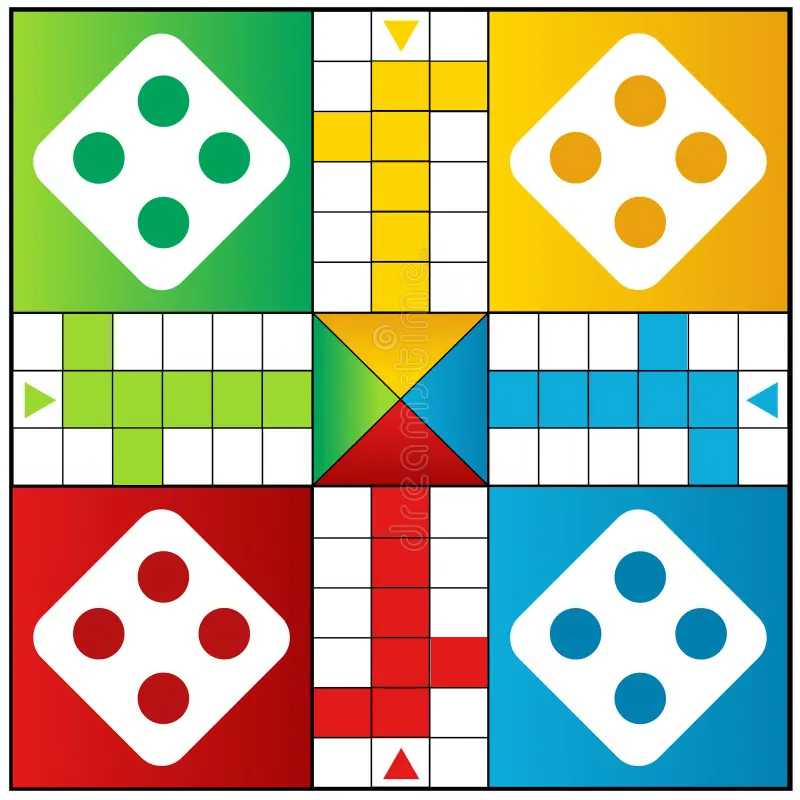
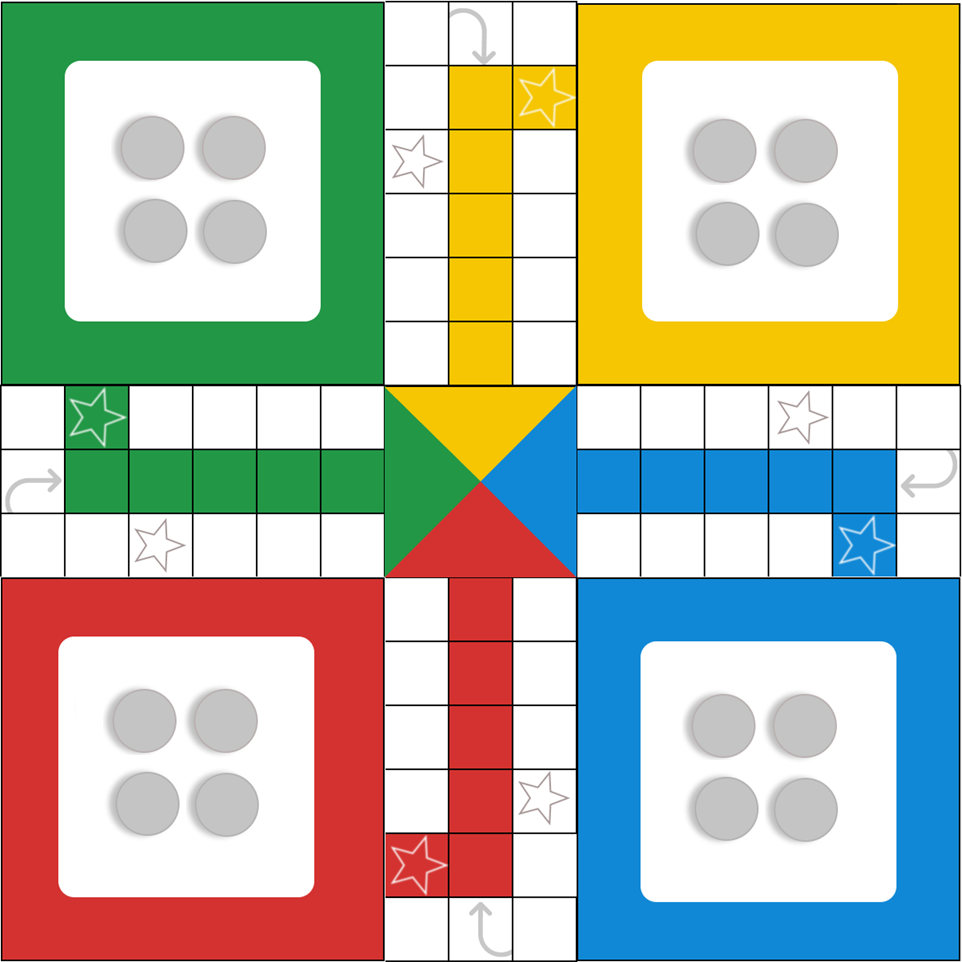
added new screen skins for playerseat

diff --git a/LudoClient/CoreEngine/Game.xaml b/LudoClient/CoreEngine/Game.xaml
@@ -1,33 +1,35 @@
 <?xml version="1.0" encoding="utf-8" ?>
-<ContentPage xmlns="http://schemas.microsoft.com/dotnet/2021/maui"
+<ContentPage x:Class="LudoClient.CoreEngine.Game"
+             xmlns="http://schemas.microsoft.com/dotnet/2021/maui"
              xmlns:x="http://schemas.microsoft.com/winfx/2009/xaml"
-             x:Class="LudoClient.CoreEngine.Game"
              xmlns:local="clr-namespace:LudoClient.ControlView"
-             BackgroundImageSource="background_waitingroom.png"
              xmlns:controls="clr-namespace:LudoClient.ControlView"
              xmlns:simpleCore="clr-namespace:SimpleToolkit.Core;assembly=SimpleToolkit.Core"
-             xmlns:acrylic="clr-namespace:Xe.AcrylicView;assembly=Xe.AcrylicView">
+             xmlns:acrylic="clr-namespace:Xe.AcrylicView;assembly=Xe.AcrylicView"
+             xmlns:constants="clr-namespace:LudoClient.Constants"
+             BackgroundImageSource="{x:Static constants:Skins.Background_Waitingroom}">
+             
     <Grid VerticalOptions="FillAndExpand" HorizontalOptions="FillAndExpand">
         <Grid HorizontalOptions="FillAndExpand" VerticalOptions="Fill" RowDefinitions=".3*,.4*,.06*,1.6*,.4*,.2*">
-            <local:Capsule x:Name="Glayout" Grid.Row="3" ImageSource="board_game.png" HorizontalOptions="CenterAndExpand" VerticalOptions="CenterAndExpand">
+            <local:Capsule x:Name="Glayout" Grid.Row="3" ImageSource="{x:Static constants:Skins.GameBoard}" HorizontalOptions="CenterAndExpand" VerticalOptions="CenterAndExpand">
                 <Grid HorizontalOptions="FillAndExpand" VerticalOptions="FillAndExpand" RowDefinitions="*,*,*,*,*,*,*,*,*,*,*,*,*,*,*" ColumnDefinitions="*,*,*,*,*,*,*,*,*,*,*,*,*,*,*">
                     <AbsoluteLayout x:Name="Alayout" Grid.ColumnSpan="15" Grid.RowSpan="15">
-                        <local:Token x:Name="red1" piece="red_token_large.png"/>
-                        <local:Token x:Name="red2" piece="red_token_large.png"/>
-                        <local:Token x:Name="red3" piece="red_token_large.png"/>
-                        <local:Token x:Name="red4" piece="red_token_large.png"/>
-                        <local:Token x:Name="gre1" piece="green_token_large.png"/>
-                        <local:Token x:Name="gre2" piece="green_token_large.png"/>
-                        <local:Token x:Name="gre3" piece="green_token_large.png"/>
-                        <local:Token x:Name="gre4" piece="green_token_large.png"/>
-                        <local:Token x:Name="yel1" piece="yellow_token_large.png"/>
-                        <local:Token x:Name="yel2" piece="yellow_token_large.png"/>
-                        <local:Token x:Name="yel3" piece="yellow_token_large.png"/>
-                        <local:Token x:Name="yel4" piece="yellow_token_large.png"/>
-                        <local:Token x:Name="blu1" piece="blue_token_large.png"/>
-                        <local:Token x:Name="blu2" piece="blue_token_large.png"/>
-                        <local:Token x:Name="blu3" piece="blue_token_large.png"/>
-                        <local:Token x:Name="blu4" piece="blue_token_large.png"/>
+                        <local:Token x:Name="red1" piece="{x:Static constants:Skins.RedToken}"/>
+                        <local:Token x:Name="red2" piece="{x:Static constants:Skins.RedToken}"/>
+                        <local:Token x:Name="red3" piece="{x:Static constants:Skins.RedToken}"/>
+                        <local:Token x:Name="red4" piece="{x:Static constants:Skins.RedToken}"/>
+                        <local:Token x:Name="gre1" piece="{x:Static constants:Skins.GreenToken}"/>
+                        <local:Token x:Name="gre2" piece="{x:Static constants:Skins.GreenToken}"/>
+                        <local:Token x:Name="gre3" piece="{x:Static constants:Skins.GreenToken}"/>
+                        <local:Token x:Name="gre4" piece="{x:Static constants:Skins.GreenToken}"/>
+                        <local:Token x:Name="yel1" piece="{x:Static constants:Skins.YellowToken}"/>
+                        <local:Token x:Name="yel2" piece="{x:Static constants:Skins.YellowToken}"/>
+                        <local:Token x:Name="yel3" piece="{x:Static constants:Skins.YellowToken}"/>
+                        <local:Token x:Name="yel4" piece="{x:Static constants:Skins.YellowToken}"/>
+                        <local:Token x:Name="blu1" piece="{x:Static constants:Skins.BlueToken}"/>
+                        <local:Token x:Name="blu2" piece="{x:Static constants:Skins.BlueToken}"/>
+                        <local:Token x:Name="blu3" piece="{x:Static constants:Skins.BlueToken}"/>
+                        <local:Token x:Name="blu4" piece="{x:Static constants:Skins.BlueToken}"/>
                     </AbsoluteLayout>
                 </Grid>
             </local:Capsule>

diff --git a/LudoClient/GameSettingsPages/OfflinePage.xaml b/LudoClient/GameSettingsPages/OfflinePage.xaml
@@ -21,18 +21,18 @@
                     <Grid Margin="2,20,2,0" HeightRequest="20" ColumnSpacing="35" HorizontalOptions="FillAndExpand" ColumnDefinitions=".1*,.1*">
                         <Grid ColumnDefinitions=".04*,.1*,.04*" >
                             <BoxView BackgroundColor="#2B4195" Grid.ColumnSpan="3" CornerRadius="6" Margin="-8,-4,-8,-4"></BoxView>
-                            <local:ImageSwitch Margin="0,1,10,1" x:Name="TabP1" SwitchText="" SwitchOn="radio_on.png" SwitchOff="radio_off.png" VerticalOptions="Center" HorizontalOptions="Center"  IsIndependent="False" InputTransparent="True"/>
-                            <Label Grid.Column="1">Computer</Label>
-                            <Image Margin="10,-2,0,-2" Grid.Column="2" Source="ic_computer.png" HorizontalOptions="CenterAndExpand" VerticalOptions="CenterAndExpand"/>
+                            <local:ImageSwitch Margin="0,1,2,1" x:Name="TabP1" SwitchText="" SwitchOn="radio_on.png" SwitchOff="radio_off.png" VerticalOptions="FillAndExpand" HorizontalOptions="Start"  IsIndependent="False" InputTransparent="True"/>
+                            <Label Grid.Column="1" FontSize="14" HorizontalTextAlignment="Start">Computer</Label>
+                            <Image Margin="6,-2,0,-2" Grid.Column="2" Source="ic_computer.png" HorizontalOptions="End" VerticalOptions="CenterAndExpand"/>
                             <Grid.GestureRecognizers>
                                 <TapGestureRecognizer Tapped="TabRequestedActivateP" CommandParameter="TabP1"/>
                             </Grid.GestureRecognizers>
                         </Grid>
                         <Grid Grid.Column="1" ColumnDefinitions=".04*,.1*,.04*" >
                             <BoxView  BackgroundColor="#2B4195" Grid.ColumnSpan="3" CornerRadius="6" Margin="-8,-4,-8,-4"></BoxView>
-                            <local:ImageSwitch Margin="0,1,10,1" x:Name="TabP2" SwitchText="" SwitchOn="radio_on.png" SwitchOff="radio_off.png" VerticalOptions="Center" HorizontalOptions="Center" IsIndependent="False" InputTransparent="True"/>
-                            <Label Grid.Column="1">Local</Label>
-                            <Image Margin="10,-2,0,-2" Grid.Column="2" Source="ic_local.png" HorizontalOptions="CenterAndExpand" VerticalOptions="CenterAndExpand"/>
+                            <local:ImageSwitch Margin="0,1,2,1" x:Name="TabP2" SwitchText="" SwitchOn="radio_on.png" SwitchOff="radio_off.png" VerticalOptions="FillAndExpand" HorizontalOptions="Start"  IsIndependent="False" InputTransparent="True"/>
+                            <Label Grid.Column="1" FontSize="14" HorizontalTextAlignment="Start">Local</Label>
+                            <Image Margin="6,-2,0,-2" Grid.Column="2" Source="ic_local.png" HorizontalOptions="CenterAndExpand" VerticalOptions="CenterAndExpand"/>
                             <Grid.GestureRecognizers>
                                 <TapGestureRecognizer Tapped="TabRequestedActivateP" CommandParameter="TabP2"/>
                             </Grid.GestureRecognizers>

diff --git a/LudoClient/ControlView/PlayerSeat.xaml b/LudoClient/ControlView/PlayerSeat.xaml
@@ -14,19 +14,19 @@
             </Image>
 
             <Grid Grid.Row="2" Grid.ColumnSpan="4" >
-                <Label x:Name="PlayerNameText" FontSize="12" FontAttributes="Bold" VerticalTextAlignment="Center" VerticalOptions="Center" Margin="10,0,0,2" TextColor="Black"></Label>
+                <Label x:Name="PlayerNameText" FontSize="12" FontAttributes="Bold" HorizontalTextAlignment="Start" HorizontalOptions="Start" Margin="10,0,0,2" TextColor="Black"></Label>
             </Grid>
 
             <Grid x:Name="ProgressBoxParentContainer" Margin="0,0,0,-5" BackgroundColor="#992B4195" Grid.Row="3" Grid.ColumnSpan="4" ColumnDefinitions=".2*,1*" >
-                <Grid x:Name="ProgressBoxParent" Grid.Column="1" Margin="0,0,20,0">
-                    <BoxView x:Name="ProgressBox" HorizontalOptions="Start" Color="#91111111" CornerRadius="3" BackgroundColor="Transparent"/>
-                    <Label x:Name="ProgressBoxText" VerticalTextAlignment="Center" VerticalOptions="Center" Margin="5,0,0,0">Auto</Label>
-                </Grid>
-                <Image x:Name="CheckBox" Source="checkbox_red.png" Margin="-2" VerticalOptions="FillAndExpand" HorizontalOptions="FillAndExpand">
+                <Image x:Name="CheckBox" Source="checkbox_red.png" Margin="-2">
                     <Image.GestureRecognizers>
                         <TapGestureRecognizer Tapped="AutoClicked" />
                     </Image.GestureRecognizers>
                 </Image>
+                <Grid x:Name="ProgressBoxParent" Grid.Column="1">
+                    <BoxView x:Name="ProgressBox" HorizontalOptions="Start" Color="#91111111" CornerRadius="3" BackgroundColor="Transparent"/>
+                    <Label x:Name="ProgressBoxText" HorizontalTextAlignment="Start" HorizontalOptions="Start" Margin="5,0,0,0">Auto</Label>
+                </Grid>
             </Grid>
         </Grid>
     </local:Capsule>

diff --git a/LudoClient/ControlView/TournamentDetailList.xaml b/LudoClient/ControlView/TournamentDetailList.xaml
@@ -1,9 +1,10 @@
 <?xml version="1.0" encoding="utf-8" ?>
-<ContentView xmlns="http://schemas.microsoft.com/dotnet/2021/maui"
+<ContentView x:Class="LudoClient.ControlView.TournamentDetailList"
+             xmlns="http://schemas.microsoft.com/dotnet/2021/maui"
              xmlns:x="http://schemas.microsoft.com/winfx/2009/xaml"
-             x:Class="LudoClient.ControlView.TournamentDetailList"
              xmlns:local="clr-namespace:LudoClient.ControlView">
     <Grid>
+        
         <Grid x:Name="ExpandSheet" Grid.ColumnSpan="3" HorizontalOptions="FillAndExpand" VerticalOptions="FillAndExpand">
             <local:Capsule ImageSource="expand_card.png" HorizontalOptions="FillAndExpand" VerticalOptions="StartAndExpand">
                 <Grid HorizontalOptions="FillAndExpand" VerticalOptions="FillAndExpand" ColumnDefinitions=".3*,.1*">
@@ -23,6 +24,7 @@
                 </Grid>
             </local:Capsule>
         </Grid>
+        
         <local:Capsule x:Name="SubSheet" ImageSource="total_available_bal_bg.png" HorizontalOptions="FillAndExpand" VerticalOptions="StartAndExpand">
             <Grid ColumnSpacing="10" HorizontalOptions="FillAndExpand" VerticalOptions="FillAndExpand" ColumnDefinitions=".3*,.1*,.04*" Padding="2,0,10,0">
                 <StackLayout Margin="12,0,0,0" HorizontalOptions="StartAndExpand" VerticalOptions="CenterAndExpand">
@@ -42,5 +44,6 @@
                 <ImageButton Grid.ColumnSpan="3" Visual="false" Clicked="Expand_Clicked" HorizontalOptions="Fill" VerticalOptions="Fill"/>
             </Grid>
         </local:Capsule>
+        
     </Grid>
 </ContentView>

diff --git a/LudoClient/GameSettingsPages/CashGame.xaml b/LudoClient/GameSettingsPages/CashGame.xaml
@@ -50,13 +50,13 @@
                             <Image Source="{x:Static constants:Skins.PlusBTN}" Grid.Column="2" VerticalOptions="Center" HorizontalOptions="End"/>
                         </Grid>
                     </local:Capsule>
-                    <StackLayout Orientation="Horizontal" Spacing="20" Margin="30,0,30,0"  HorizontalOptions="CenterAndExpand" VerticalOptions="FillAndExpand">
-                        <ImageButton Source="btn_join.png" Clicked="JoinRoom_Clicked" Margin="0,12,0,12" HorizontalOptions="CenterAndExpand" VerticalOptions="FillAndExpand"/>
-                        <ImageButton Source="btn_create.png" Clicked="CreateRoom_Clicked" Margin="0,12,0,12" HorizontalOptions="CenterAndExpand" VerticalOptions="FillAndExpand"/>
+                    <StackLayout Orientation="Horizontal" HeightRequest="40" Spacing="20" HorizontalOptions="FillAndExpand" VerticalOptions="FillAndExpand">
+                        <ImageButton Source="btn_join.png" Clicked="JoinRoom_Clicked" HorizontalOptions="EndAndExpand" VerticalOptions="FillAndExpand"/>
+                        <ImageButton Source="btn_create.png" Clicked="CreateRoom_Clicked" HorizontalOptions="StartAndExpand" VerticalOptions="FillAndExpand"/>
                     </StackLayout>
                 </StackLayout>
             </Grid>
         </local:Capsule>
-        <local:BottomNavigation Grid.Row="7" Grid.ColumnSpan="5"></local:BottomNavigation>
+        <local:BottomNavigation Grid.Row="7" Grid.ColumnSpan="5"/>
     </Grid >
 </ContentPage>

diff --git a/LudoClient/GameSettingsPages/TournamentPage.xaml b/LudoClient/GameSettingsPages/TournamentPage.xaml
@@ -1,10 +1,9 @@
 <?xml version="1.0" encoding="utf-8" ?>
-<ContentPage xmlns="http://schemas.microsoft.com/dotnet/2021/maui"
-             xmlns:x="http://schemas.microsoft.com/winfx/2009/xaml"
-             x:Class="LudoClient.TournamentPage"
-             Title="TournamentPage"
-             xmlns:controlView="clr-namespace:LudoClient.ControlView"
+<ContentPage x:Class="LudoClient.TournamentPage"
              xmlns:local="clr-namespace:LudoClient"
+             xmlns="http://schemas.microsoft.com/dotnet/2021/maui"
+             xmlns:x="http://schemas.microsoft.com/winfx/2009/xaml"
+             xmlns:controlView="clr-namespace:LudoClient.ControlView"
              BackgroundImageSource="background_waitingroom.png"
              xmlns:controlview="clr-namespace:LudoClient.ControlView">
 

diff --git a/LudoClient/App.xaml b/LudoClient/App.xaml
@@ -22,6 +22,8 @@
             <simpleCore:PathGeometryExtension x:Key="PinPathGeometry" Path="{StaticResource SettingsPath}"/>
             <Style TargetType="Image">
                 <Setter Property="Aspect" Value="AspectFit" />
+                <Setter Property="VerticalOptions" Value="FillAndExpand" />
+                <Setter Property="HorizontalOptions" Value="FillAndExpand" />
             </Style>
             <Style TargetType="ImageButton">
                 <Setter Property="Aspect" Value="AspectFit" />

diff --git a/SharedCode/CoreEngine/Engine.cs b/SharedCode/CoreEngine/Engine.cs
@@ -24,27 +24,27 @@ namespace SharedCode.CoreEngine
 
         // Game logic helpers
         public static Dictionary<string, List<Piece>>? board;
-        string playerColor;
 
         public EngineHelper EngineHelper = new EngineHelper();
-        public void TimerTimeout(String SeatName)
+
+
+        public async void TimerTimeoutAsync(String SeatName)
         {  
            switch(EngineHelper.gameState){
                 case "RollDice":
-                    SeatTurn(SeatName);
+                   await SeatTurn(SeatName);
                     break;
                 case "MovePiece":
                     Player player = EngineHelper.currentPlayer;
                     List<Piece> moveablePieces = player.Pieces.Where(p => p.Moveable).ToList();
                     
-                    _ = MovePieceAsync(moveablePieces[GlobalConstants.rnd.Next(0,moveablePieces.Count)].Name);
+                    await MovePieceAsync(moveablePieces[GlobalConstants.rnd.Next(0,moveablePieces.Count)].Name);
                     break;
             }
         }
         public Engine(string gameType, string playerCount, string playerColor)
         {
             gameRecorder = new GameRecorder(this);
-            this.playerColor = playerColor;
             board = new Dictionary<string, List<Piece>>
     {
         { "p0", new List<Piece>() },
@@ -158,7 +158,8 @@ namespace SharedCode.CoreEngine
 
             PlayState = "Active";
             if (EngineHelper.stopAnimate)
-                TimerTimeout(EngineHelper.currentPlayer.Color);
+                TimerTimeoutAsync(EngineHelper.currentPlayer.Color);
+            //EngineHelper.rolls.Add(3);
         }
         public async Task<string> SeatTurn(string seatName)
         {
@@ -178,12 +179,11 @@ namespace SharedCode.CoreEngine
 
                 if (!EngineHelper.stopAnimate)
                     // Simulate server delay
-                    await Task.Delay(400);
+                    await Task.Delay(200);
                 else
                     await Task.Delay(30);
                 // Notify the end of the dice roll
                 StopDice(seatName, tempDice);
-
 
                 // Determine which pieces can move
                 foreach (var piece in player.Pieces)
@@ -352,7 +352,7 @@ namespace SharedCode.CoreEngine
                     //perform turn turn check
                     StartProgressAnimation(EngineHelper.currentPlayer.Color);
                 else
-                    TimerTimeout(EngineHelper.currentPlayer.Color);
+                    TimerTimeoutAsync(EngineHelper.currentPlayer.Color);
             }
         }
         public void cleanGame()

diff --git a/LudoClient/DashboardPage.xaml.cs b/LudoClient/DashboardPage.xaml.cs
@@ -4,6 +4,7 @@ using CommunityToolkit.Maui.Views;
 using LudoClient.Constants;
 using LudoClient.Popups;
 using Microsoft.Maui.Controls;
+using System.Diagnostics;
 
 public partial class DashboardPage : ContentPage
 {
@@ -18,7 +19,9 @@ public partial class DashboardPage : ContentPage
     }
     private void CashGame_Clicked(object sender, EventArgs e)
     {
-        Navigation.PushAsync(cashGame);
+        var stopwatch = Stopwatch.StartNew();
+        Navigation.PushAsync(cashGame).Wait(); // For testing only
+        Console.WriteLine($"Navigation took: {stopwatch.ElapsedMilliseconds}ms");
     }
     private void Offline_Clicked(object sender, EventArgs e)
     {

diff --git a/LudoClient/Constants/Skins.cs b/LudoClient/Constants/Skins.cs
@@ -55,6 +55,11 @@ namespace LudoClient.Constants
         public static string PlusBTN => $"btn_plus_large{CurrentSkinType}.png";
         //WAITING ROOM
         public static string VS => $"vs{CurrentSkinType}.png";
-
+        //GAME BOARD
+        public static string GameBoard => $"board_game.png";
+        public static string RedToken => $"red_token_large.png";
+        public static string GreenToken => $"green_token_large.png";
+        public static string YellowToken => $"yellow_token_large.png";
+        public static string BlueToken => $"blue_token_large.png";
     }
 }

diff --git a/LudoClient/CoreEngine/Game.xaml.cs b/LudoClient/CoreEngine/Game.xaml.cs
@@ -296,7 +296,7 @@ public partial class Game : ContentPage
 
 
         foreach (var seat in new[] { gui.red, gui.green, gui.yellow, gui.blue })
-            seat.TimerTimeout += Engine.TimerTimeout;
+            seat.TimerTimeout += Engine.TimerTimeoutAsync;
 
         //Event Handelers
         GreenPlayerSeat.OnDiceClicked += PlayerDiceClicked;

diff --git a/SignalR/SignalR.Server/LudoHub.cs b/SignalR/SignalR.Server/LudoHub.cs
@@ -58,6 +58,7 @@ namespace SignalR.Server
         }
         public async Task LeaveCloseLobby(int playerId, string roomCode)
         {
+            if(roomCode!=null)
             try
             {
                 // Check if the RoomCode already exists in the database
